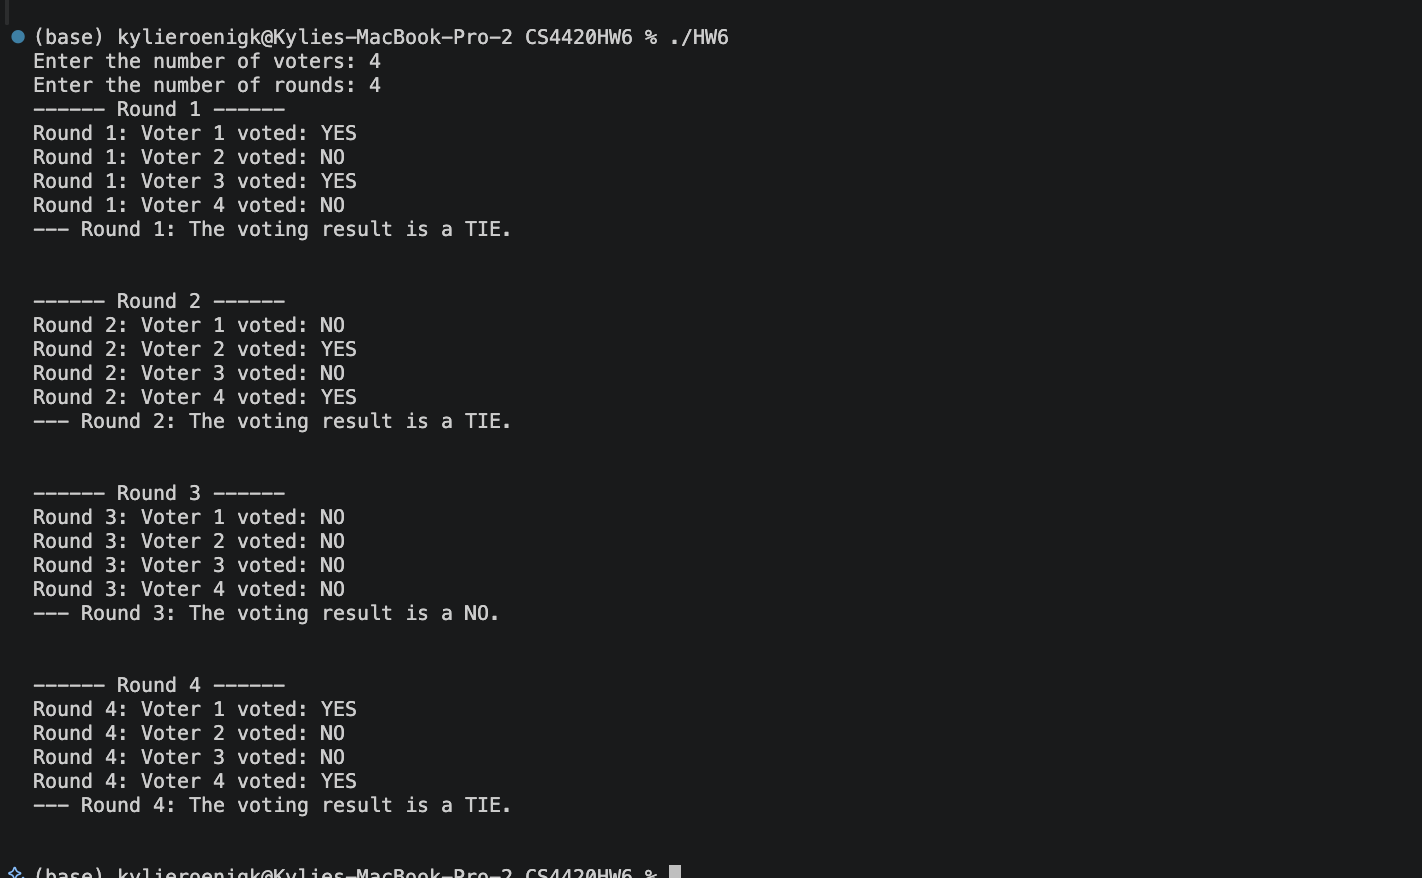
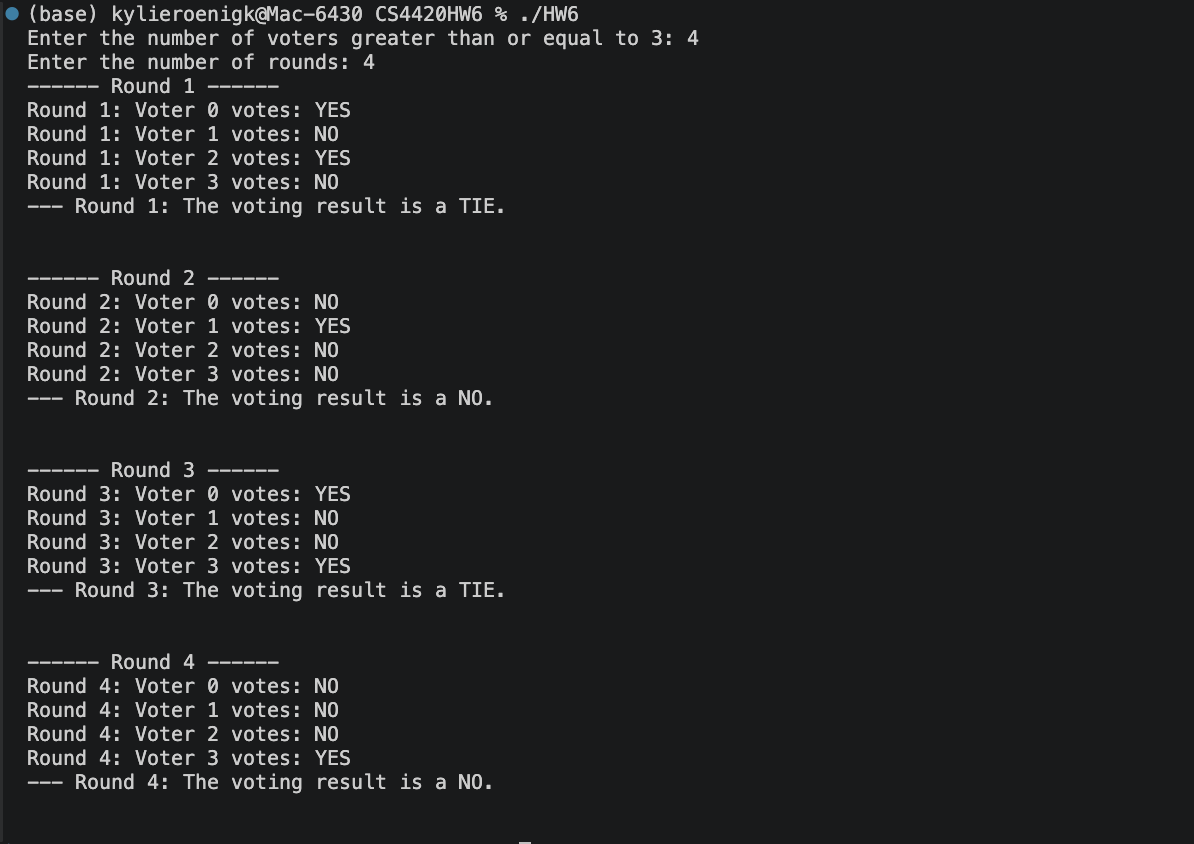
Fixed code to fit requirements, see comment regarding voter vote print statement

diff --git a/HW6.c b/HW6.c
@@ -13,12 +13,18 @@ int main(void)
     int voter_id = -1;
 
     // Get the number of voters from the user
-    printf("Enter the number of voters: ");
+    printf("Enter the number of voters greater than or equal to 3: ");
     fflush(stdout);
 
     // Check if the input is a valid integer
     if (scanf("%d", &voters) != 1) {
         fprintf(stderr, "Error: expected a int for the first input.\n");
+        return EXIT_FAILURE;
+    }
+
+    // Check if the number of voters is greater than or equal to 3
+    if (voters < 3) {
+        fprintf(stderr, "Error: number of voters must be greater than or equal to 3.\n");
         return EXIT_FAILURE;
     }
 
@@ -30,6 +36,12 @@ int main(void)
     // Check if the input is a valid integer
     if (scanf("%d", &maxNumberOfRounds) != 1) {
         fprintf(stderr, "Error: expected a int for the second input.\n");
+        return EXIT_FAILURE;
+    }
+
+    // Check if the number of rounds is greater than 0
+    if (maxNumberOfRounds <= 0) {
+        fprintf(stderr, "Error: number of rounds must be greater than 0.\n");
         return EXIT_FAILURE;
     }
 
@@ -56,16 +68,27 @@ int main(void)
 
             // Give each voter a different random seed
             srand((unsigned int)(time(NULL) ^ getpid()));
-            
-            // Close the read end of the pipe in the child process so that it can only write to the pipe
-            close(pipes[i][0]);
 
             // exit the loop so that the child process does not create more child processes
             break;
-        } else {
-            // Parent process (judge)
-            // Close the write end of the pipe in the parent process so that it can only read from the pipe
+        }
+    }
+
+    // Close unnecessary pipe ends in the judge and voter processes
+    if (voter_id == -1) {
+        for (int i = 0; i < voters; i++) {
+            // Close the write end of the pipe in the judge process
             close(pipes[i][1]);
+        }
+    } else {
+        for (int i = 0; i < voters; i++) {
+            // Close the read end of the pipe in the voter process
+            close(pipes[i][0]);
+
+            // Close the write end of the pipe for all other voters
+            if (i != voter_id) {
+                close(pipes[i][1]);
+            }
         }
     }
 
@@ -76,16 +99,20 @@ int main(void)
             printf("------ Round %d ------\n", i + 1);
 
             int votes[voters];
-            int count = 0.0;
+            int count = 0;
             for (int j = 0; j < voters; j++) {
-                read(pipes[j][0], &votes[j], sizeof(int));
+                // Read the vote from the pipe
+                if (read(pipes[j][0], &votes[j], sizeof(int)) == -1) {
+                    perror("Failed to read from pipe");
+                    return EXIT_FAILURE;
+                }
 
                 // Print the vote of each voter
-                printf("Round %d: Voter %d voted: %s\n", i + 1, j + 1, (votes[j] == 1) ? "YES" : "NO");
+                printf("Round %d: Voter %d votes: %s\n", i + 1, j, (votes[j] == 1) ? "YES" : "NO");
             }
 
             // Count the votes and declare the majority
-            for (int j = 0; j < voters; j++) {
+            for (int j = 0; j < voters; j++) {     
                 if (votes[j] == 1) {
                     count++;
                 }
@@ -105,8 +132,24 @@ int main(void)
         } else {
             // Voter process writes to the pipe with their vote
             int vote = rand() % 2; // Randomly vote YES (1) or NO (0)
+            // Here is where we can have the voters print their vote, but that looks messy in the terminal, so I have the judge print the votes of each voter instead.
             write(pipes[voter_id][1], &vote, sizeof(int));
         }
+    }
+
+    // Close the pipes in the parent process
+    if (voter_id == -1) {
+        // Close the read ends of the pipes in the judge process
+        for (int i = 0; i < voters; i++) {
+            close(pipes[i][0]);
+        }
+
+        // Wait for all child processes to finish
+        for (int i = 0; i < voters; i++) {
+            wait(NULL);
+        }
+    } else {
+        close(pipes[voter_id][1]);
     }
 
     return EXIT_SUCCESS;
